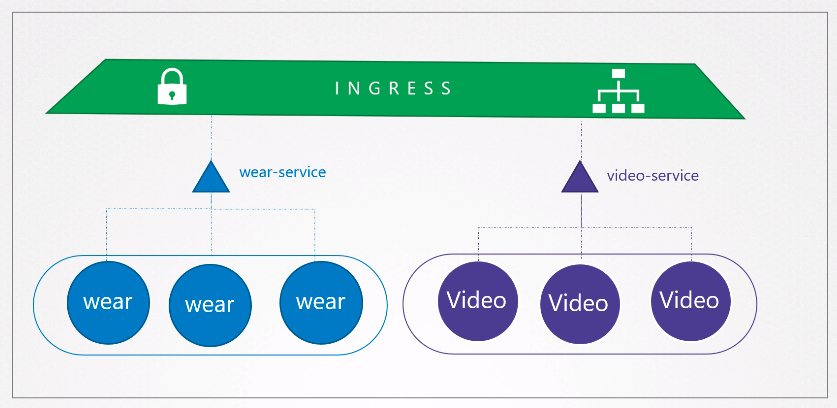
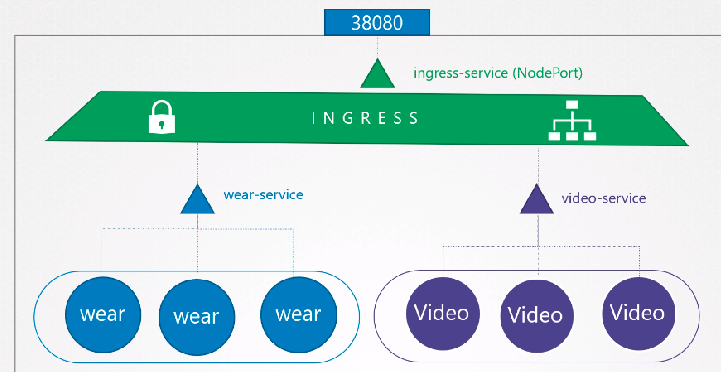
Ingress Controller and Ingress Resource updates.

diff --git a/kubernetes/applications-developer/README.md b/kubernetes/applications-developer/README.md
@@ -92,6 +92,7 @@
       - [Replacing With Ingress](#replacing-with-ingress)
     - [How Does Ingress Work](#how-does-ingress-work)
     - [Ingress Controller](#ingress-controller)
+      - [Creating An Ingress Controller](#creating-an-ingress-controller)
     - [Ingress Resources](#ingress-resources)
   - [5.3) Network Policy](#53-network-policy)
 
@@ -2142,6 +2143,8 @@ becomes
 
 ![with-ingress.png](with-ingress.png)
 
+Notice that the ingress is exposed as well.
+
 ### How Does Ingress Work
 
 A k8s Ingress needs 2 things to work:
@@ -2153,20 +2156,36 @@ A k8s Ingress needs 2 things to work:
 * https://kubernetes.io/docs/concepts/services-networking/ingress-controllers/
 * https://kubernetes.github.io/ingress-nginx/deploy/
 * In order for the Ingress resource to work, the cluster must have an ingress controller running.
-* This is not installed by default with k8s, you need to install it manually. To create one, you must
-  * Create a blank ConfigMap that can be confingured later for log location, SSL, etc.
-  * Use a Deployment YAML file using the image `ngnix-ingress-controller`. The Deployment must have:
-    * An argument `nginx-ingress-controller` to start the special version of k8s Nginx.
-    * The ConfigMap
-    * 2 environment variables that cover the Pod's name and namespace to be deployed.
-    * The ports used by the Ingress Controller.
-
+* This is not installed by default with k8s, you need to install it manually.
 * It is either and Nginx proxy that is specially configured for k8s, or it is a GCP LoadBalancer.
 * These special proxys monintor the cluster for new Ingress Resources and automatically configure themselves for them.
 
+#### Creating An Ingress Controller
+
+* You need multiple components to create an Ingress Controller.
+1. A blank ConfigMap that can be confingured later for log location, SSL, etc. This will be added into the Deployment so the nginx configruation details are decoupled from the Deployment file.
+1. A Deployment ising the image `ngnix-ingress-controller`. The Deployment must have:
+  * 2 arguments:
+    1. An argument `nginx-ingress-controller` to start the special version of k8s Nginx.
+    1. The ConfigMap object contains all the nginx configuration data. A blank ConfigMap can be used but it must exist for the Ingress Controller to work.
+ * 2 environment variables
+    1. The Pod's name
+    1. The namespace to be deployed into.
+  * The ports used by the Ingress Controller, which are standard http port 80 and https 443.
+1. A Service of type NodePort is needed to expose the Ingress Controller to the world.
+2. A Service Account with the correct roles and bindings is needed. The Ingress Controller uses this when it detects Ingress Resources changes and updates the nginx configuration.
+
+![ingress-controller-components.png](ingress-controller-components.png)
+
 ### Ingress Resources
 
-* Traffic routing is controlled by rules defined on the Ingress resource. These are created with k8 YAML object files.
+* Traffic routing is controlled by rules defined on the Ingress resource. These are created with k8 YAML object files and are applied to the Ingress Controller.
+* Traffic routing can be done a number of different ways:
+  1. Forward all traffic to a single application.
+  2. Route traffic to different applications based on URL.
+  3. Route traffic to different applications based on the domain name.
+
+![ingress-resource-routing.png](ingress-resource-routing.png)
 
 ## 5.3) Network Policy
 
